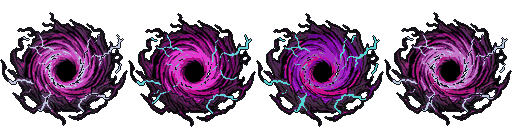
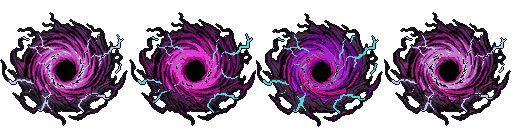
The vortex steps on the music's beat, one frame a beat (Sound.beat, from the loops' tempos), and its frames' cores are snapped to the same pixel

Changed region(s): [[0.25, 0.0938, 1.0, 0.9688]]

diff --git a/tools/foeforge/forge.py b/tools/foeforge/forge.py
@@ -353,6 +353,21 @@ def _place(img, scale, core, target, frame):
     return canvas
 
 
+def _snap_cores(frames):
+    """After scaling and quantizing, the cores land within a pixel or two of each other;
+    at the map's 2x that is a visible twitch. Shift every frame by whole pixels so its core
+    sits exactly where the first frame's does."""
+    ref = _core(frames[0])
+    out = [frames[0]]
+    for f in frames[1:]:
+        c = _core(f)
+        dx, dy = int(round(ref[0] - c[0])), int(round(ref[1] - c[1]))
+        moved = Image.new("RGBA", f.size, (0, 0, 0, 0))
+        moved.paste(f, (dx, dy), f)
+        out.append(moved)
+    return out
+
+
 def cut_rift(args):
     """One candidate into three frames: the vortex turned a little each way about its
     centre (an image model cannot draw a consistent second frame; a turn of a few degrees,
@@ -375,6 +390,7 @@ def cut_rift(args):
         target = (origin[0] + (ref_core[0] - bbox[0]) * scale, origin[1] + (ref_core[1] - bbox[1]) * scale)
         for img in keyed:
             frames.append(outline(quantize(_place(img, scale, _core(img), target, RIFT_FRAME), None, args.colours)))
+        frames = _snap_cores(frames)
     else:
         src = _key_rift(args.image)
         for angle in [-RIFT_TWIST, 0.0, RIFT_TWIST]:
